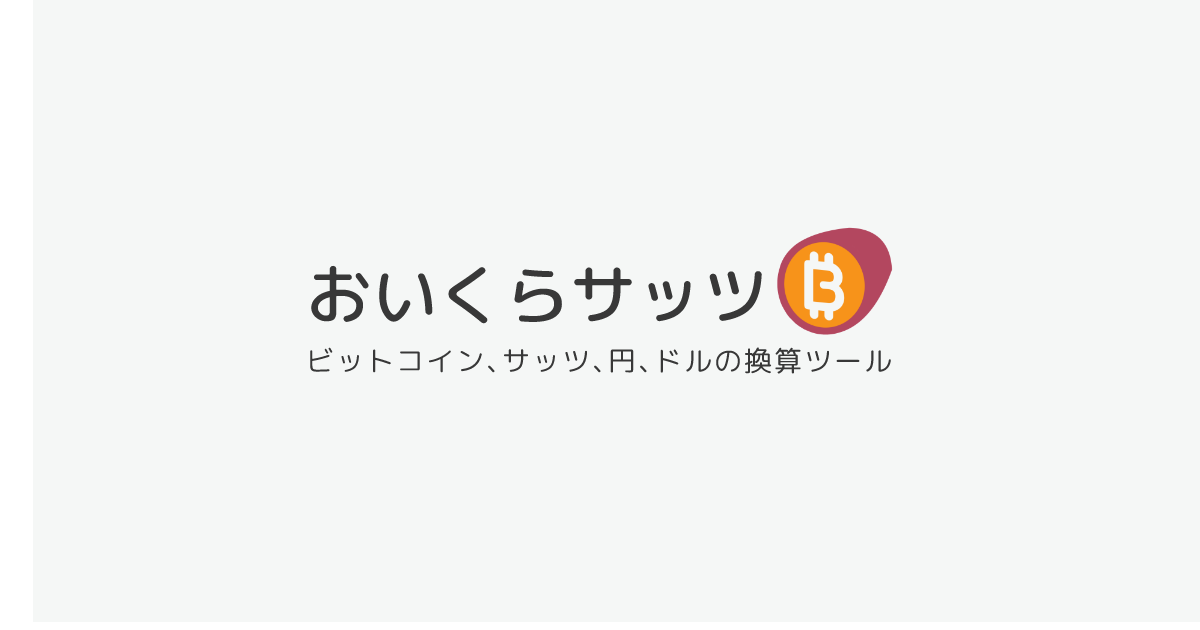
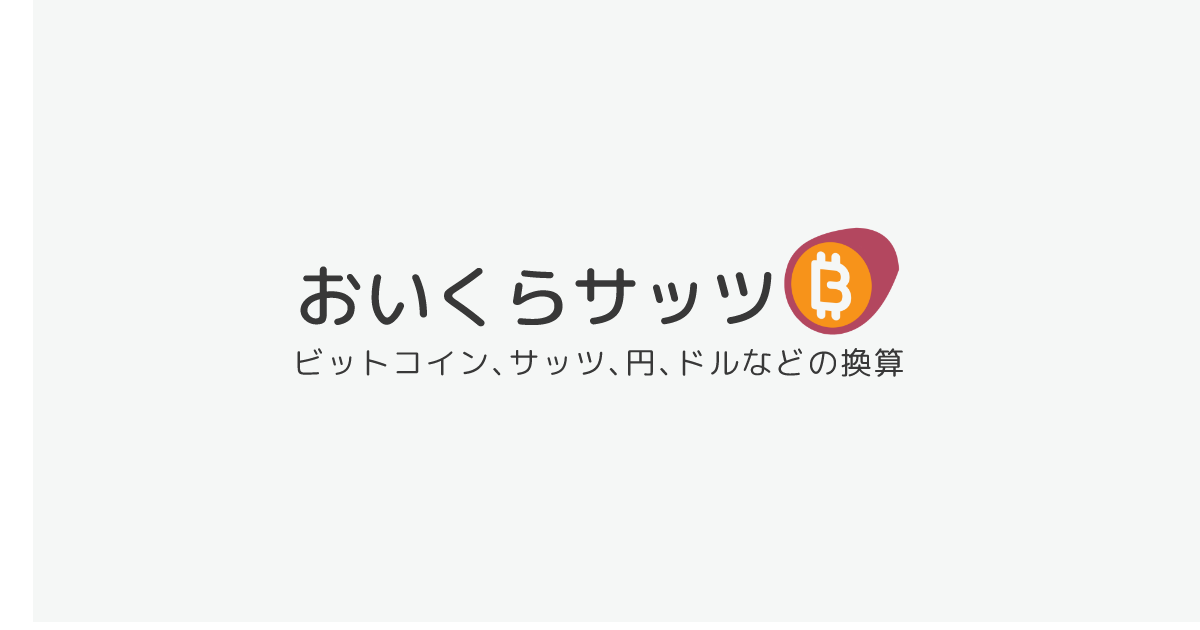
en用のデフォルトのOGP画像

Changed region(s): [[0.2467, 0.3619, 0.7708, 0.6032], [0.2467, 0.4222, 0.4008, 0.5127]]

diff --git a/workers/worker.js b/workers/worker.js
@@ -11,6 +11,7 @@ const DEFAULT_DESCRIPTION = "ビットコイン、サッツ、日本円、米ド
 const DEFAULT_TITLE_EN = "OikuraSats";
 const DEFAULT_DESCRIPTION_EN = "Multi-currency converter for Bitcoin, sats, USD, EUR and more.";
 const STATIC_OGP_PATH = "/assets/images/ogp.png";
+const STATIC_OGP_PATH_EN = "/assets/images/ogp_en.png";
 const MAX_FILE_BYTES = 2 * 1024 * 1024;  // 2MB
 const CACHE_MAX_AGE = 31536000;           // 1年（秒）
 
@@ -287,9 +288,11 @@ async function handleOgImage(url, env, request) {
         if (m) imgId = m[1];
     }
 
+    const lang = (url.searchParams.get('lang') || '').toLowerCase();
+
     // img_idがない、または無効な形式の場合は静的OGPを直接返す（Twitterbotはリダイレクトを追跡しないため）
     if (!imgId || !isValidUuid(imgId)) {
-        return fetchStaticOgp(url.origin, request);
+        return fetchStaticOgp(url.origin, request, lang);
     }
 
     try {
@@ -297,7 +300,7 @@ async function handleOgImage(url, env, request) {
         const object = await env.OGP_IMAGES.get(key);
 
         if (!object) {
-            return fetchStaticOgp(url.origin, request);
+            return fetchStaticOgp(url.origin, request, lang);
         }
 
         // TTLはR2のライフサイクルに任せる（期限切れオブジェクトはR2側で自動削除され、存在しない場合は上で静的OGPを返す）
@@ -313,14 +316,15 @@ async function handleOgImage(url, env, request) {
         });
     } catch (error) {
         console.error('[handleOgImage] Error:', error);
-        return fetchStaticOgp(url.origin, request);
+        return fetchStaticOgp(url.origin, request, lang);
     }
 }
 
 // 静的OGP画像を直接フェッチして返す（リダイレクトではなく、Twitterbot対応）
-async function fetchStaticOgp(origin, request) {
+async function fetchStaticOgp(origin, request, lang = '') {
+    const ogpPath = lang === 'en' ? STATIC_OGP_PATH_EN : STATIC_OGP_PATH;
     try {
-        const staticUrl = `${origin}${STATIC_OGP_PATH}`;
+        const staticUrl = `${origin}${ogpPath}`;
         const response = await fetch(staticUrl, {
             headers: {
                 'User-Agent': request.headers.get('User-Agent') || ''
@@ -329,7 +333,7 @@ async function fetchStaticOgp(origin, request) {
 
         if (!response.ok) {
             // フェッチに失敗した場合のみリダイレクトにフォールバック
-            return Response.redirect(`${origin}${STATIC_OGP_PATH}`, 302);
+            return Response.redirect(`${origin}${ogpPath}`, 302);
         }
 
         // 画像を直接返す（リダイレクトなし）
@@ -342,7 +346,7 @@ async function fetchStaticOgp(origin, request) {
         });
     } catch (error) {
         console.error('[fetchStaticOgp] Error:', error);
-        return Response.redirect(`${origin}${STATIC_OGP_PATH}`, 302);
+        return Response.redirect(`${origin}${ogpPath}`, 302);
     }
 }
 
@@ -353,10 +357,12 @@ function rewriteOgpMeta(originRes, url, imgId) {
     const params = url.searchParams;
     const { title, description, siteName } = buildOgMetaFromParams(params);
     const currentUrl = url.toString();
+    const lang = (params.get('lang') || '').toLowerCase();
+    const staticOgpPath = lang === 'en' ? STATIC_OGP_PATH_EN : STATIC_OGP_PATH;
     // 可能なら拡張子付きのパス形式を使う（bots が拡張子のないURLを嫌うケースを回避）
     const ogImageUrl = imgId
         ? `${url.origin}/og-image/${imgId}.png`
-        : `${url.origin}${STATIC_OGP_PATH}`;
+        : `${url.origin}${staticOgpPath}`;
 
     // lang=en の場合は en_US、それ以外は ja_JP
     const ogLocale = (params.get('lang') || '').toLowerCase() === 'en' ? 'en_US' : 'ja_JP';
